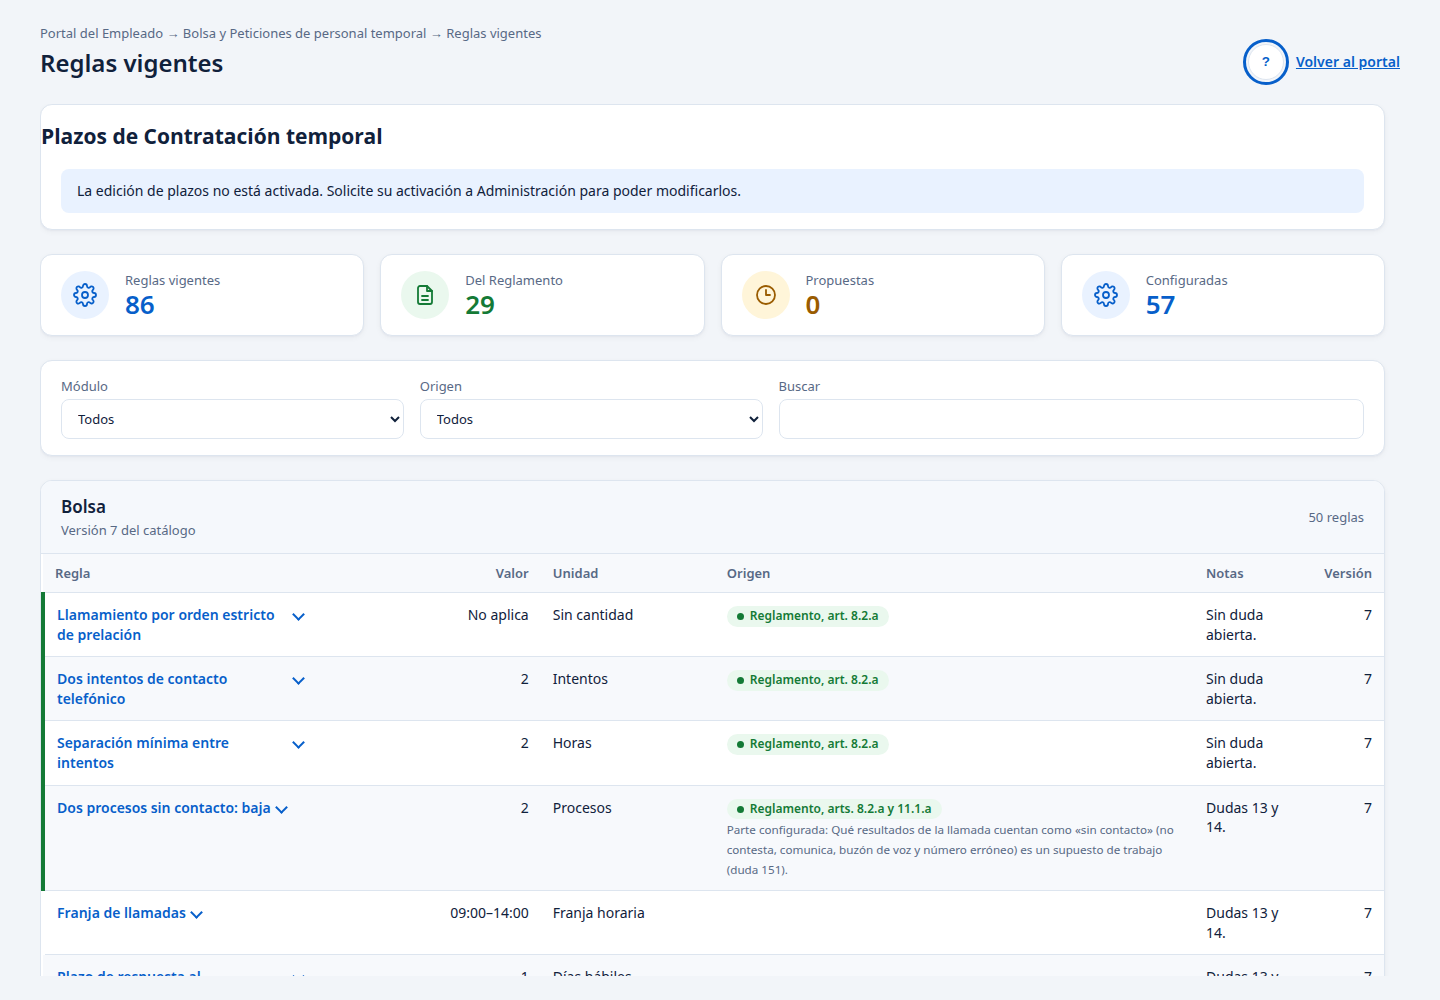
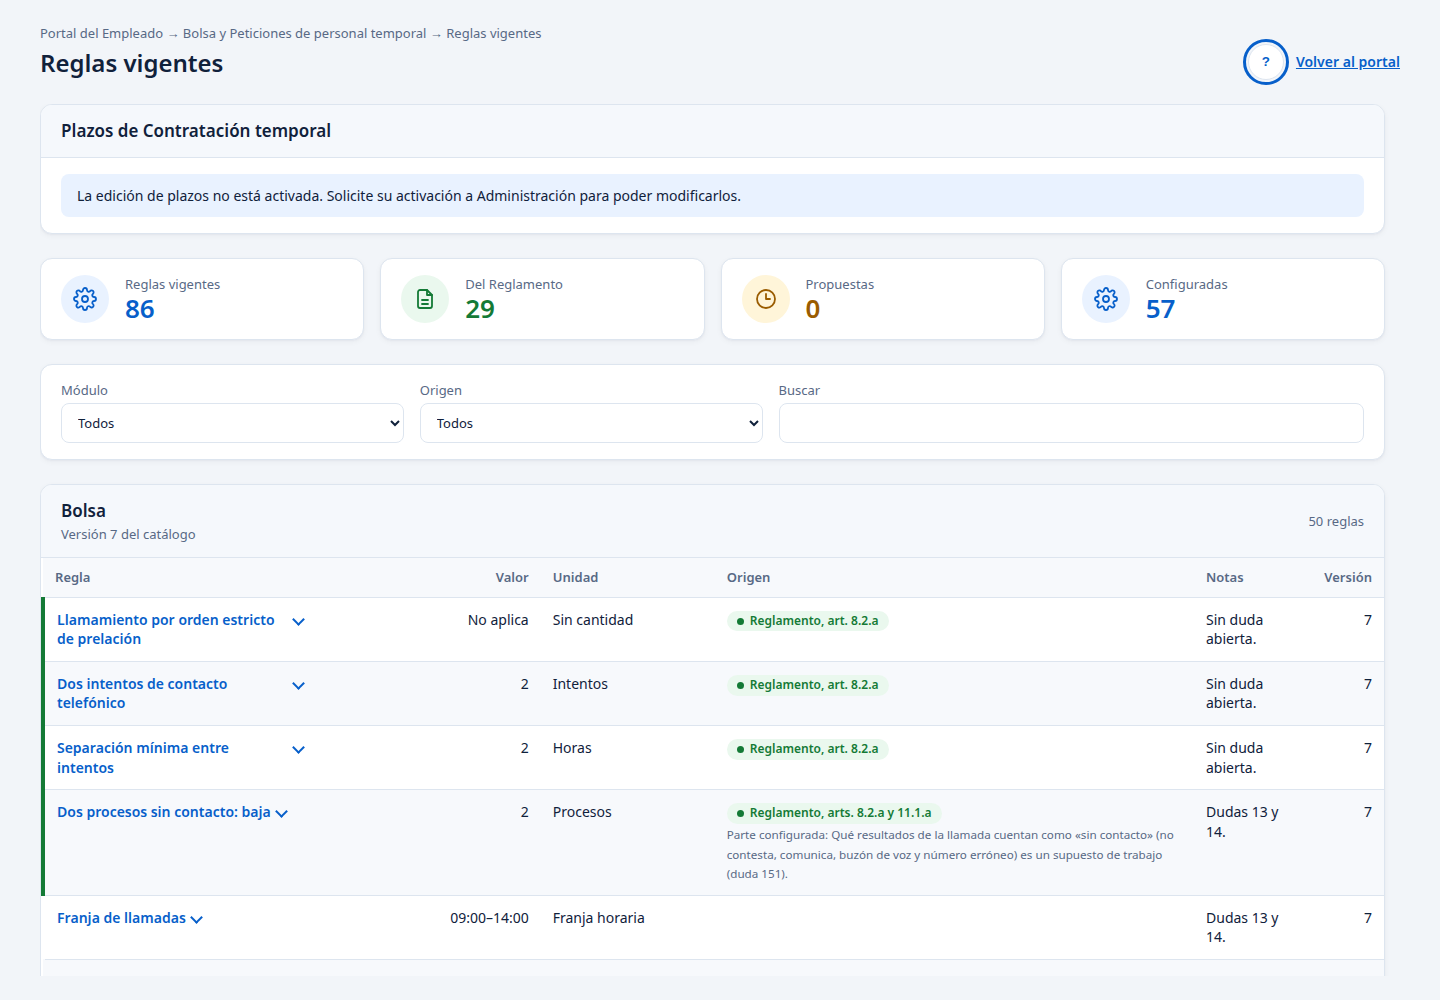
F1-33: acreditar arranque y reinicio de la cabeza final

diff --git a/docs/estudio_requisitos/f1_33_edicion_plazos_20261020.md b/docs/estudio_requisitos/f1_33_edicion_plazos_20261020.md
@@ -72,3 +72,15 @@ registra actos. El código Go del lector, manejador y composición coincide
 con el de la copia `016fd30ef`; la actualización de la principal no lo cambió.
 La preparación de otra copia completa se interrumpió por memoria insuficiente
 antes de compilar o arrancar la app, y se retiró. No se presenta como ensayo.
+
+
+La comprobación final sobre `58d7399ad`, ya con la cabecera alineada y la
+principal actualizada, se completó después de recuperar margen de memoria.
+Copia nueva creada en 99,46 segundos, mediante el mismo guion estándar.
+Chrome repitió 1440/1024/390 en castellano y 390 en inglés, teclado,
+zoom al 200 % y alto contraste. Tras reiniciar aplicación y PostgreSQL, las
+cuatro vistas conservaron exactamente los mensajes y estados: solo GET de
+reglas 200, sin consultas de ajustes, errores JavaScript, cookies ni desbordes.
+Las imágenes `plazos-despues-*` corresponden a esta copia final. No se
+registraron actos ni cambios de plazos; la copia se retiró tras guardar la
+evidencia. Los cambios posteriores de esta entrega son solo documentales.
